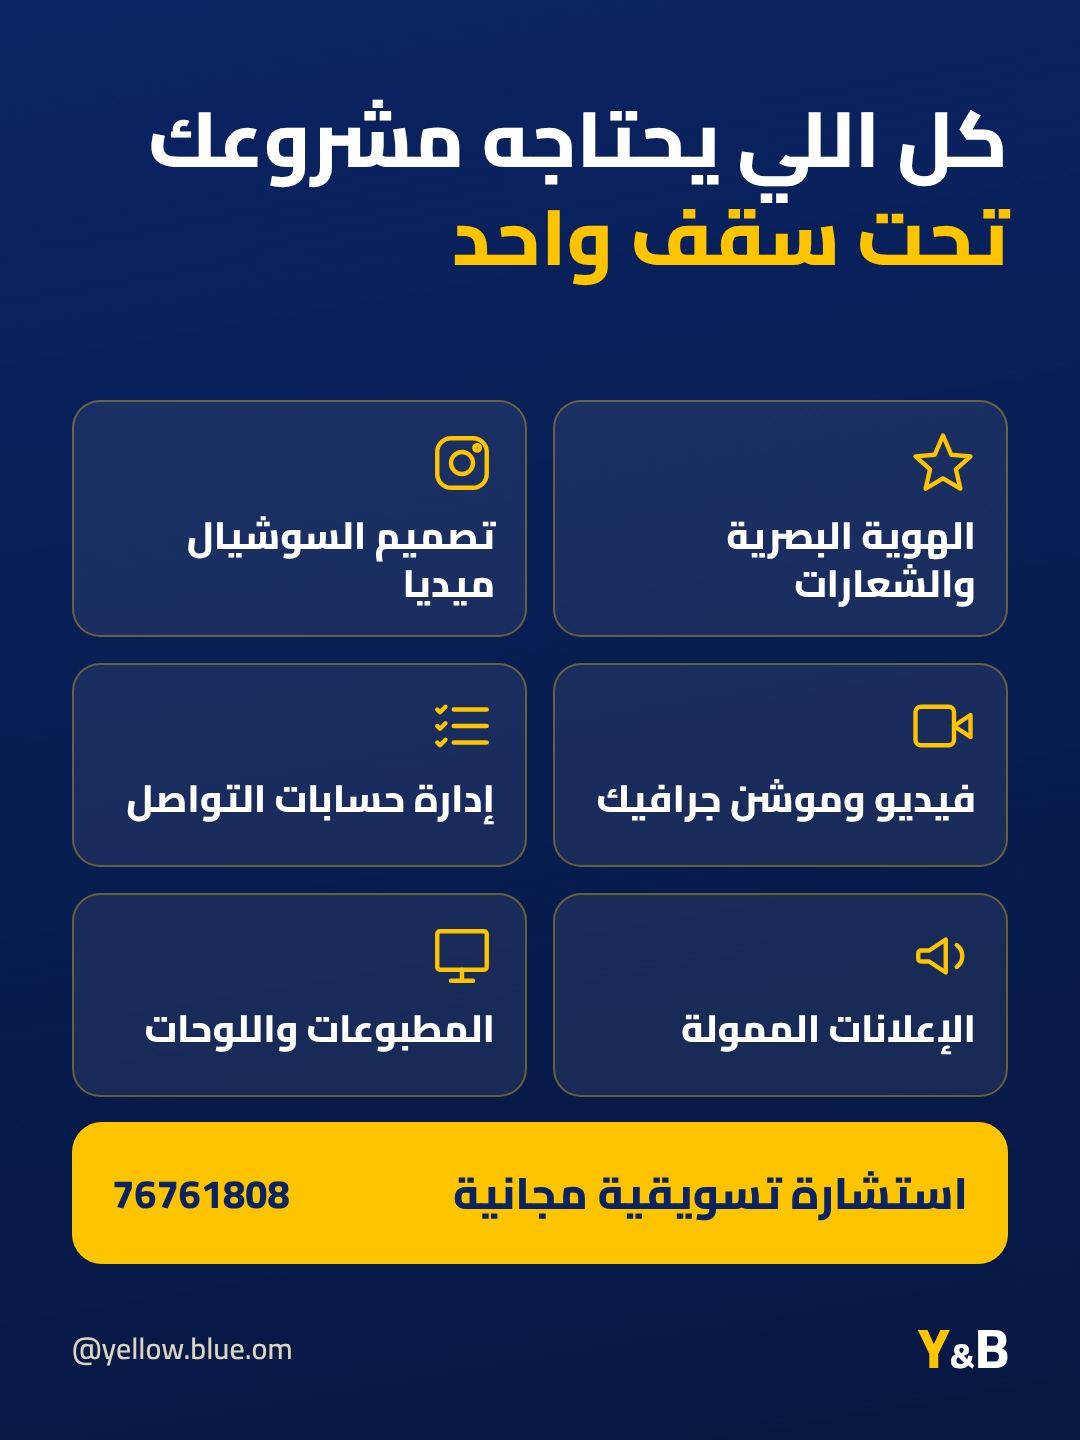
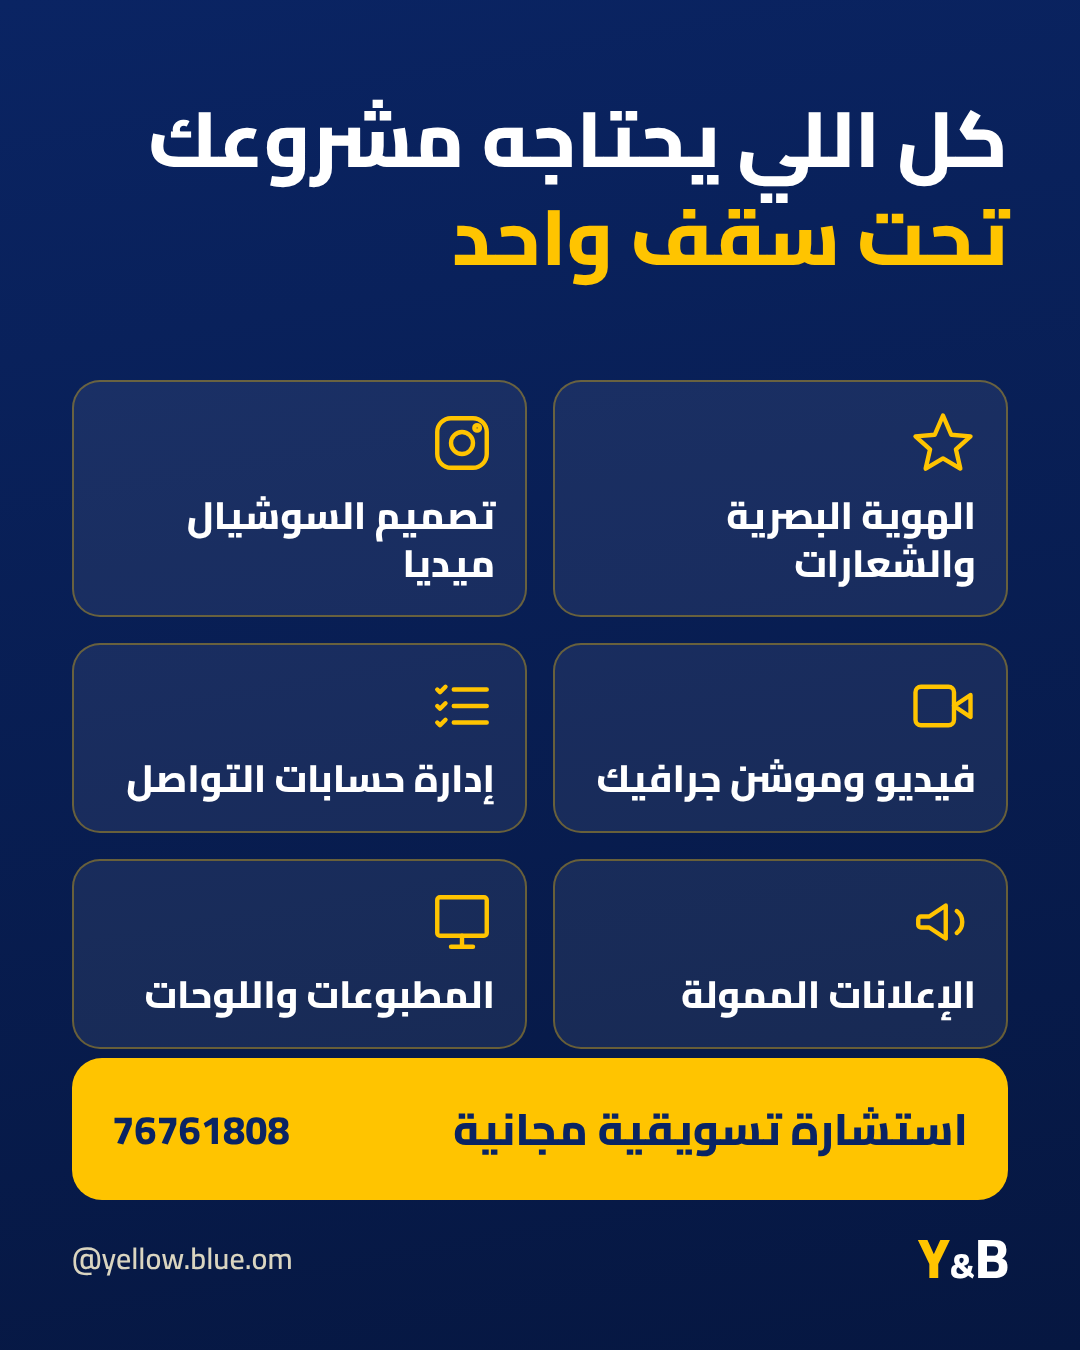
Pinned posts at 4:5 plus JPEG exports for publishing
Claude-Session: https://claude.ai/code/session_01MGbmisSchx6FMZp32TSNjx

diff --git a/instagram_redesign/src/build.js b/instagram_redesign/src/build.js
@@ -66,38 +66,38 @@ const footer = (dark) => `<div style="position:absolute;bottom:64px;left:72px;ri
   ${dark ? mono(56) : `<span style="font-weight:800;font-size:56px;color:${C.blue}">Y<span style="font-size:36px">&amp;</span>B</span>`}
 </div>`;
 
-assets['07_pin1_intro'] = { w: 1080, h: 1440, html: page(1080, 1440, `
-<div class="rtl" style="width:1080px;height:1440px;background:${C.yellow};position:relative;overflow:hidden">
+assets['07_pin1_intro'] = { w: 1080, h: 1350, html: page(1080, 1350, `
+<div class="rtl" style="width:1080px;height:1350px;background:${C.yellow};position:relative;overflow:hidden">
   <div style="position:absolute;left:-260px;bottom:-260px;width:820px;height:820px;border-radius:50%;background:${C.blue}"></div>
   <div style="position:absolute;right:70px;top:80px;background:${C.blue};color:${C.yellow};font-size:30px;font-weight:800;padding:12px 28px;border-radius:40px;direction:ltr">YELLOW &amp; BLUE ADVERTISING</div>
-  <div style="position:absolute;right:72px;left:72px;top:330px;font-weight:800;font-size:170px;line-height:1.15;color:${C.blue}">فكرتك<br>تستحق<br>أن تُرى</div>
-  <div style="position:absolute;right:72px;top:960px;font-size:42px;color:${C.blue};font-weight:600">دعاية وإعلان • مسقط، عُمان</div>
-  <div style="position:absolute;left:96px;bottom:110px;direction:ltr">${mono(150)}</div>
+  <div style="position:absolute;right:72px;left:72px;top:290px;font-weight:800;font-size:170px;line-height:1.15;color:${C.blue}">فكرتك<br>تستحق<br>أن تُرى</div>
+  <div style="position:absolute;right:72px;top:910px;font-size:42px;color:${C.blue};font-weight:600">دعاية وإعلان • مسقط، عُمان</div>
+  <div style="position:absolute;left:96px;bottom:80px;direction:ltr">${mono(150)}</div>
 </div>`) };
 
 const services = [['brand', 'الهوية البصرية والشعارات'], ['social', 'تصميم السوشيال ميديا'], ['video', 'فيديو وموشن جرافيك'], ['steps', 'إدارة حسابات التواصل'], ['ads', 'الإعلانات الممولة'], ['print', 'المطبوعات واللوحات']];
-assets['08_pin2_offer'] = { w: 1080, h: 1440, html: page(1080, 1440, `
-<div class="rtl" style="width:1080px;height:1440px;background:linear-gradient(170deg,${C.blue},${C.deep});position:relative">
+assets['08_pin2_offer'] = { w: 1080, h: 1350, html: page(1080, 1350, `
+<div class="rtl" style="width:1080px;height:1350px;background:linear-gradient(170deg,${C.blue},${C.deep});position:relative">
   <div style="position:absolute;right:72px;left:72px;top:90px;font-weight:800;font-size:78px;line-height:1.25;color:${C.white}">كل اللي يحتاجه مشروعك<br><span style="color:${C.yellow}">تحت سقف واحد</span></div>
-  <div style="position:absolute;right:72px;left:72px;top:400px;display:grid;grid-template-columns:1fr 1fr;gap:26px">
-    ${services.map(([ic, t]) => `<div style="background:rgba(255,255,255,.07);border:2px solid rgba(255,196,0,.35);border-radius:28px;padding:28px 30px;display:flex;flex-direction:column;gap:16px;min-height:204px">
+  <div style="position:absolute;right:72px;left:72px;top:380px;display:grid;grid-template-columns:1fr 1fr;gap:26px">
+    ${services.map(([ic, t]) => `<div style="background:rgba(255,255,255,.07);border:2px solid rgba(255,196,0,.35);border-radius:28px;padding:28px 30px;display:flex;flex-direction:column;gap:16px;min-height:190px">
       ${icon(ic, 66, C.yellow, 1.6)}<div style="font-size:38px;font-weight:800;color:${C.white};line-height:1.25">${t}</div></div>`).join('')}
   </div>
-  <div style="position:absolute;right:72px;left:72px;bottom:176px;background:${C.yellow};border-radius:30px;padding:30px 40px;display:flex;justify-content:space-between;align-items:center">
+  <div style="position:absolute;right:72px;left:72px;bottom:150px;background:${C.yellow};border-radius:30px;padding:30px 40px;display:flex;justify-content:space-between;align-items:center">
     <div style="font-size:44px;font-weight:800;color:${C.blue}">استشارة تسويقية مجانية</div>
     <div style="font-size:40px;font-weight:800;color:${C.blue};direction:ltr">76761808</div>
   </div>
   ${footer(true)}
 </div>`) };
 
-assets['09_pin3_work'] = { w: 1080, h: 1440, html: page(1080, 1440, `
-<div class="rtl" style="width:1080px;height:1440px;background:${C.cream};position:relative;overflow:hidden">
+assets['09_pin3_work'] = { w: 1080, h: 1350, html: page(1080, 1350, `
+<div class="rtl" style="width:1080px;height:1350px;background:${C.cream};position:relative;overflow:hidden">
   <div style="position:absolute;right:-180px;top:-180px;width:640px;height:640px;border-radius:50%;background:${C.yellow}"></div>
   <div style="position:absolute;right:72px;top:90px;background:${C.blue};color:${C.yellow};font-size:40px;font-weight:800;padding:14px 38px;border-radius:44px">من أعمالنا</div>
-  <div style="position:absolute;right:72px;left:72px;top:520px;font-weight:800;font-size:132px;line-height:1.15;color:${C.blue}">الجناح الثلجي<br>العالمية</div>
-  <div style="position:absolute;right:72px;top:880px;font-size:48px;font-weight:600;color:${C.blue};direction:ltr;text-align:right;width:936px">Global Snow Wing International</div>
-  <div style="position:absolute;right:72px;top:1000px;font-size:38px;font-weight:600;color:${C.blue};opacity:.8">تصميم المحتوى: Yellow &amp; Blue</div>
-  <div style="position:absolute;right:72px;top:1090px;font-size:40px;font-weight:800;color:${C.blue}">اسحب لترى العمل ←</div>
+  <div style="position:absolute;right:72px;left:72px;top:470px;font-weight:800;font-size:132px;line-height:1.15;color:${C.blue}">الجناح الثلجي<br>العالمية</div>
+  <div style="position:absolute;right:72px;top:830px;font-size:48px;font-weight:600;color:${C.blue};direction:ltr;text-align:right;width:936px">Global Snow Wing International</div>
+  <div style="position:absolute;right:72px;top:950px;font-size:38px;font-weight:600;color:${C.blue};opacity:.8">تصميم المحتوى: Yellow &amp; Blue</div>
+  <div style="position:absolute;right:72px;top:1040px;font-size:40px;font-weight:800;color:${C.blue}">اسحب لترى العمل ←</div>
   ${footer(false)}
 </div>`) };
 
